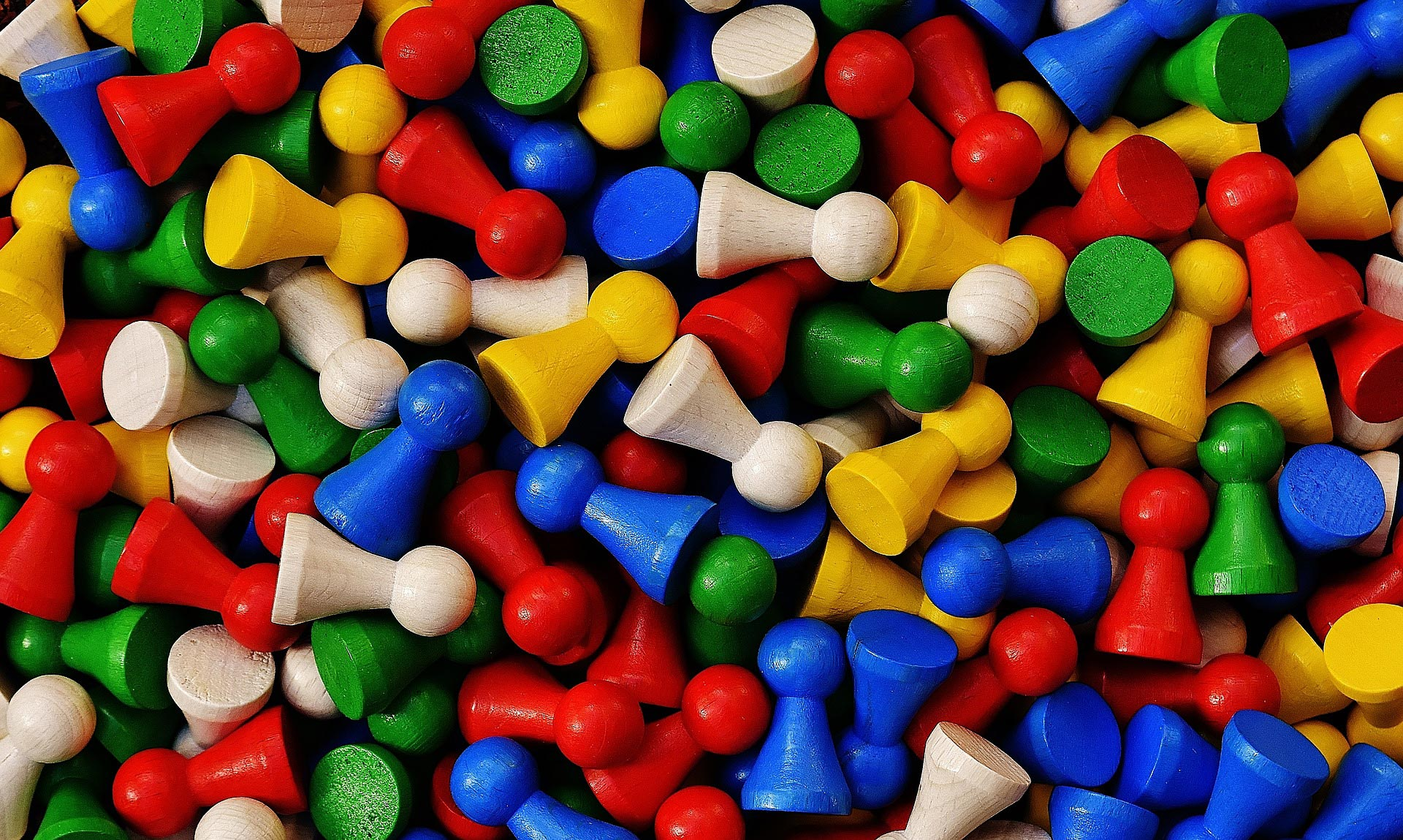
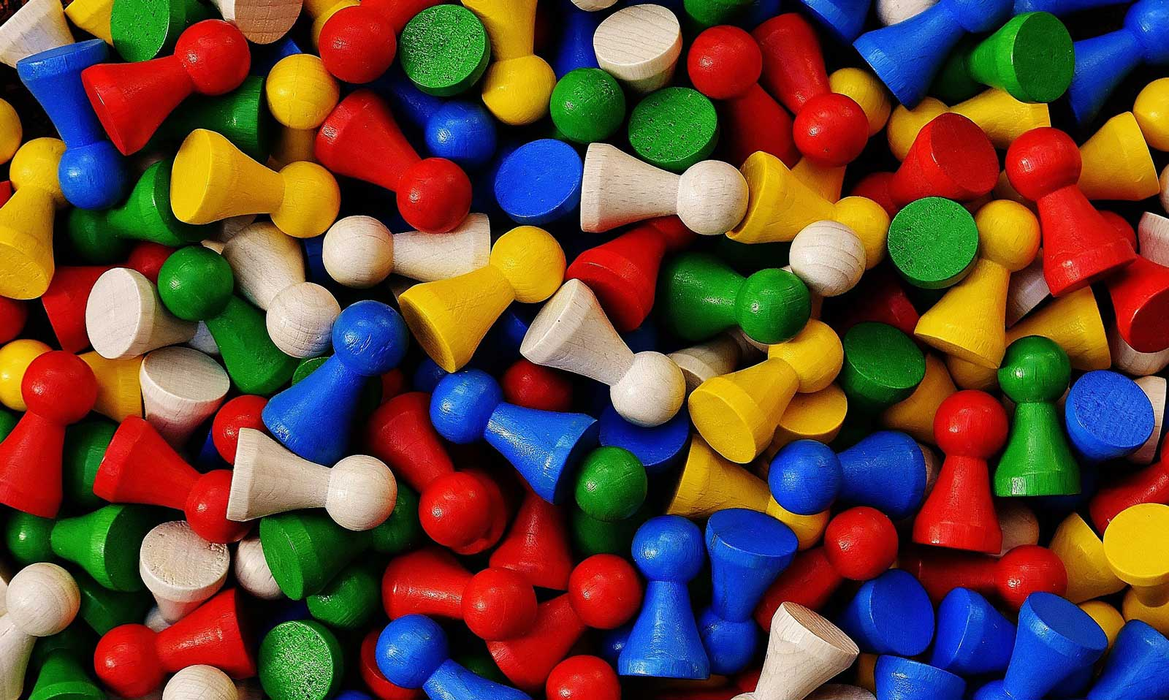
Landing image size reduced
- Two images reduced to 215K
- Typo fixed in code

diff --git a/public/thanks.html b/public/thanks.html
@@ -2,7 +2,7 @@
 <html>
 <head>
 
-  <!-- Google Optimize : Reduce Flicering -->
+  <!-- Google Optimize : Reduce Flickering -->
   <style>.async-hide { opacity: 0 !important} </style>
   <script>
     (function(a,s,y,n,c,h,i,d,e){s.className+=' '+y;h.start=1*new Date;

diff --git a/public/index.html b/public/index.html
@@ -4,7 +4,7 @@
 
 <head>
 
-  <!-- Google Optimize : Reduce Flicering -->
+  <!-- Google Optimize : Reduce Flickering -->
   <style>.async-hide { opacity: 0 !important} </style>
   <script>
     (function(a,s,y,n,c,h,i,d,e){s.className+=' '+y;h.start=1*new Date;
